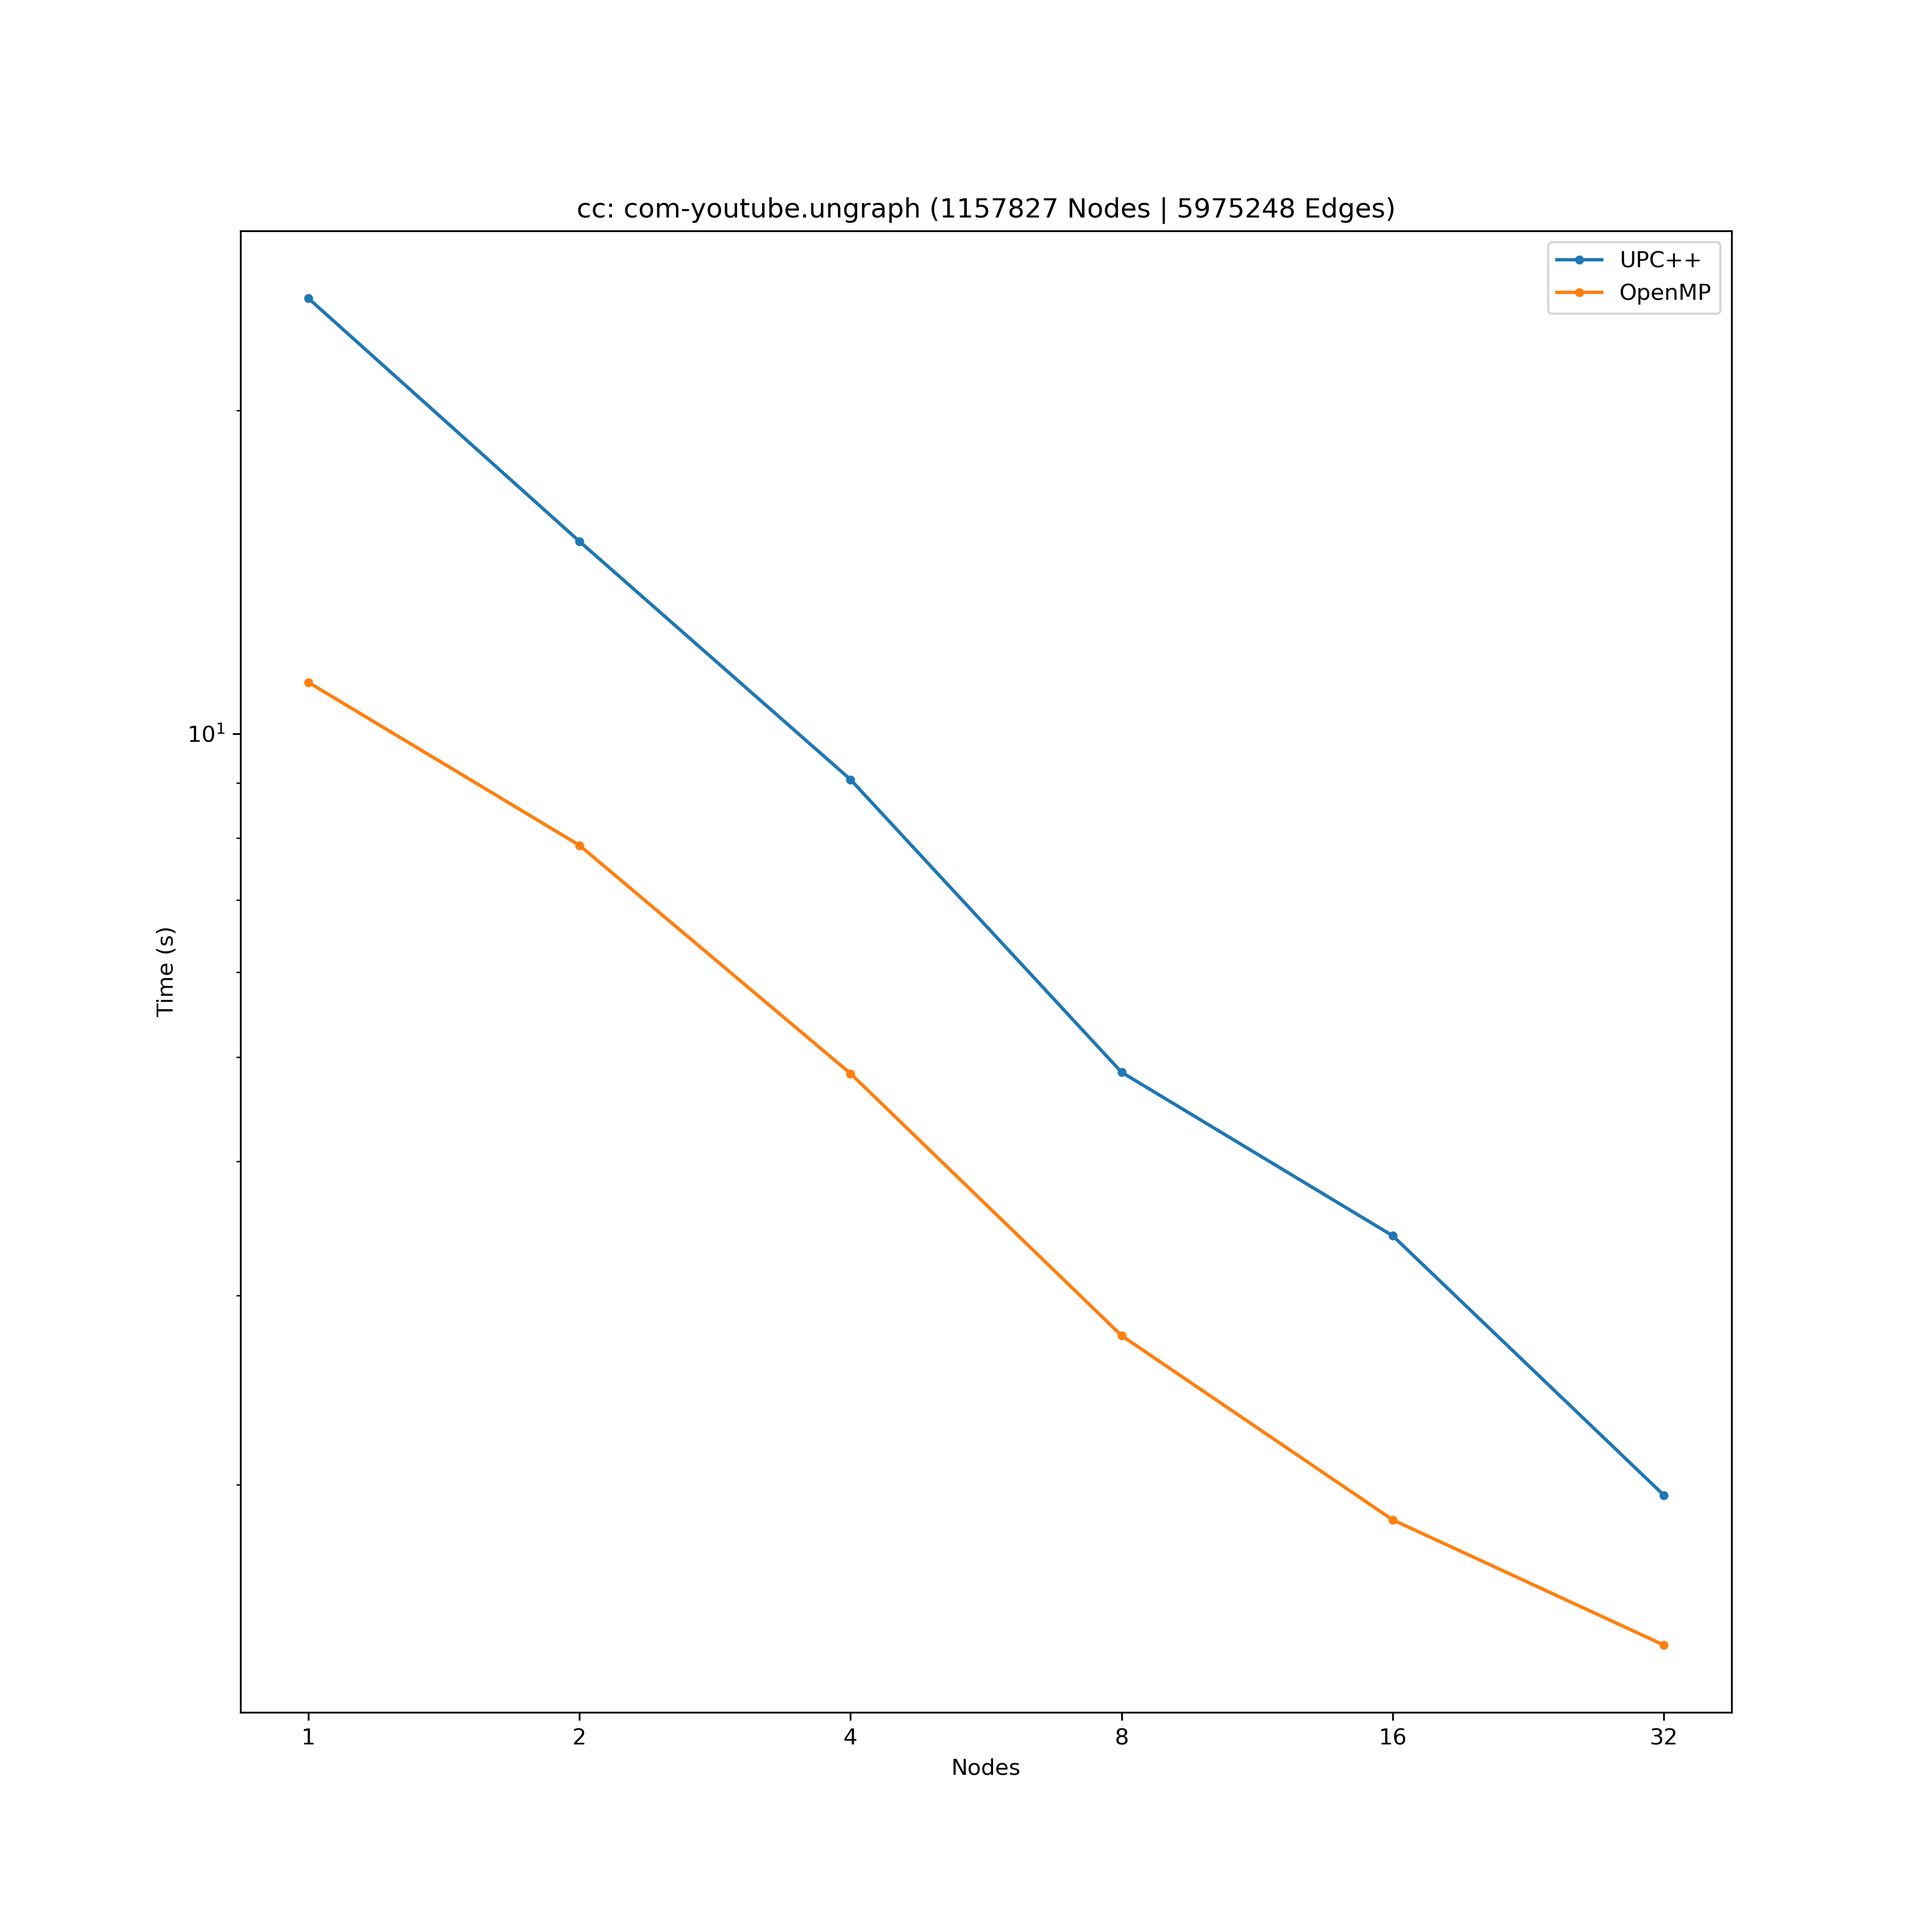
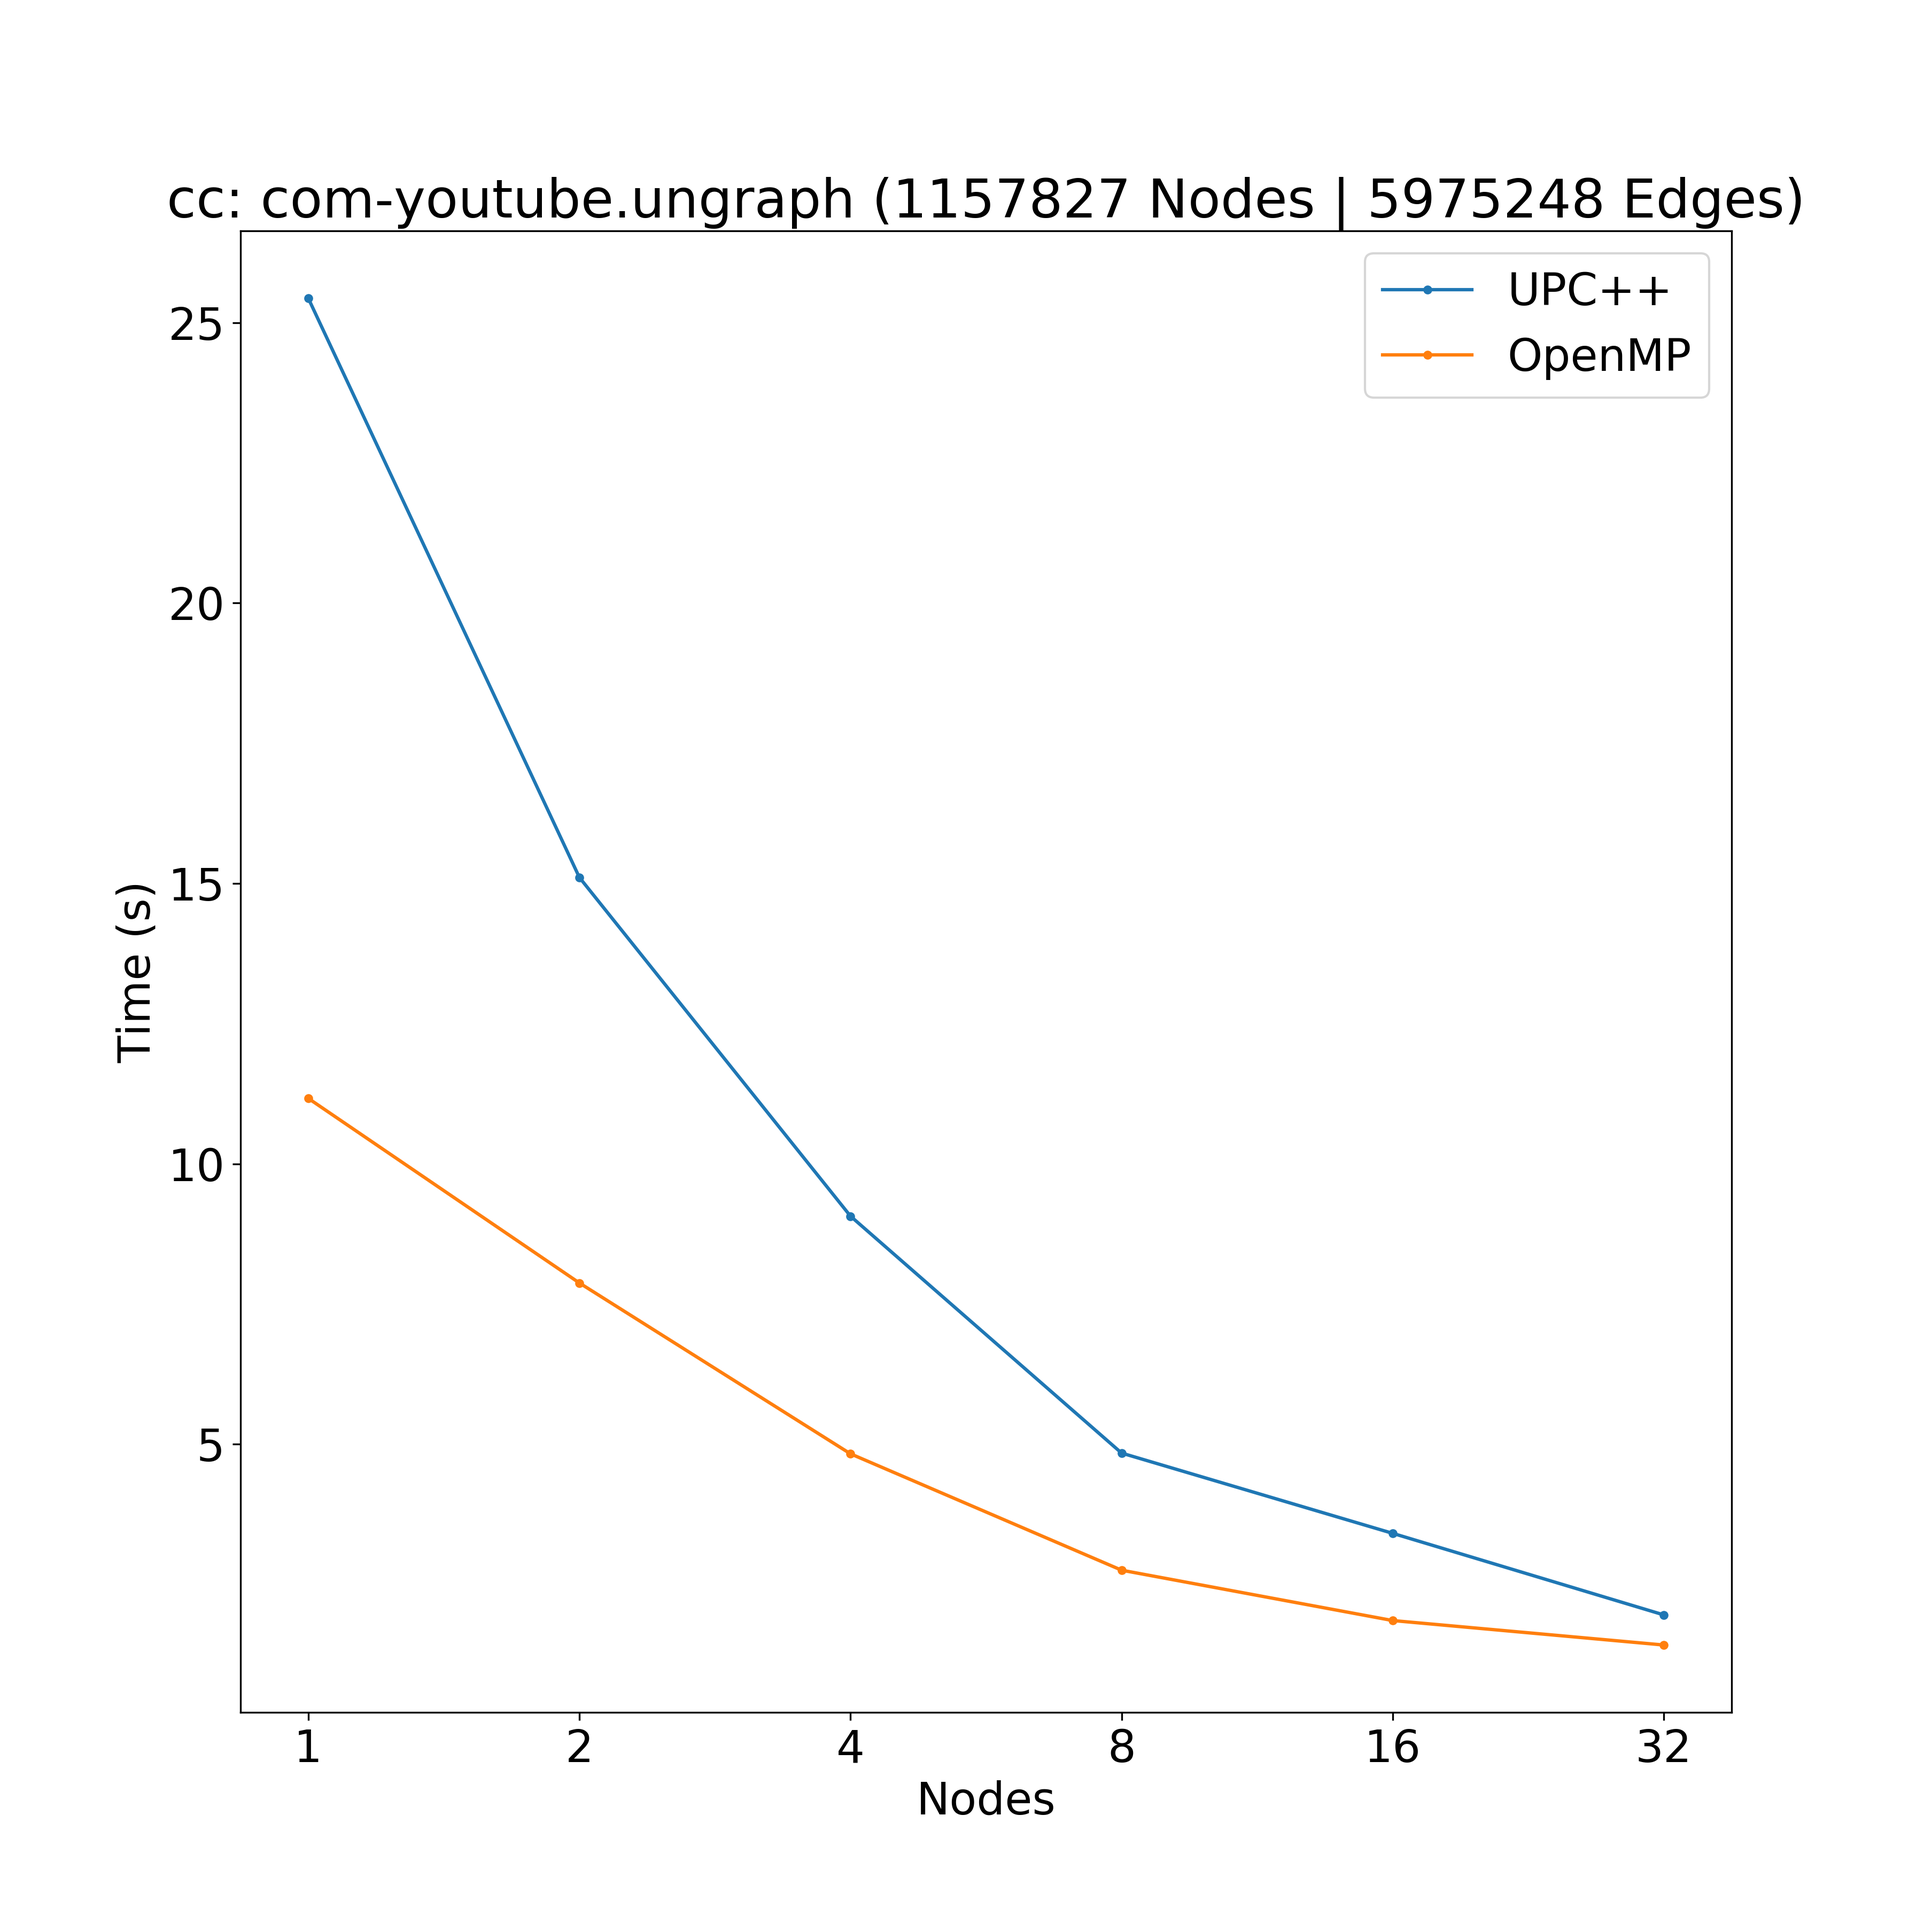
edits

diff --git a/src/upcxx/bfs.cpp b/src/upcxx/bfs.cpp
@@ -17,6 +17,63 @@ void print_vector(const vector<T> & v) {
 }
 
 
+void bfs_dense(Graph& g, dist_object<global_ptr<int>>& dist, dist_object<global_ptr<bool>>& frontier, dist_object<global_ptr<bool>>& next_frontier, int level) {
+    auto dist_local = dist->local();
+    auto frontier_local = frontier->local();
+    auto next_frontier_local = next_frontier->local();
+    global_ptr<bool> root_next_frontier = next_frontier.fetch(0).wait();
+    global_ptr<int> root_dist = dist.fetch(0).wait();
+
+    future<> fut_all = make_future();
+    for (int n = g.rank_start; n < g.rank_end; n++) {
+        // ignore if distance is already defined 
+        if (dist_local[n] < level) continue;
+        for (int v : g.in_neighbors(n)) {
+            if (dist_local[v] == (level-1)) {
+                fut_all = when_all(fut_all, rput(level, root_dist+n));
+                fut_all = when_all(fut_all, rput(true, root_next_frontier+n));
+                break;
+            }
+        }
+    }
+
+    barrier();
+
+    fut_all.wait();
+    barrier();
+    upcxx::broadcast(next_frontier_local, g.num_nodes, 0).wait();
+    upcxx::broadcast(dist_local, g.num_nodes, 0).wait();
+    barrier();
+}
+
+void bfs_sparse(Graph& g, dist_object<global_ptr<int>>& dist, dist_object<global_ptr<bool>>& frontier, dist_object<global_ptr<bool>>& next_frontier, int level) {
+    auto dist_local = dist->local();
+    auto frontier_local = frontier->local();
+    auto next_frontier_local = next_frontier->local();
+
+    global_ptr<bool> root_next_frontier = next_frontier.fetch(0).wait();
+    global_ptr<int> root_dist = dist.fetch(0).wait();
+
+    future<> fut_all = make_future();
+    for (int n = g.rank_start; n < g.rank_end; n++) {
+        // skip any that's not in frontier
+        if (!frontier_local[n]) continue;
+        for (int v : g.out_neighbors(n)) {
+            if (dist_local[v] == INT_MAX) {
+                fut_all = when_all(fut_all, rput(level, root_dist+v));
+                fut_all = when_all(fut_all, rput(true, root_next_frontier+v));
+            }
+        }
+    }
+    barrier();
+    fut_all.wait();
+    upcxx::broadcast(next_frontier_local, g.num_nodes, 0).wait();
+    upcxx::broadcast(dist_local, g.num_nodes, 0).wait();
+    barrier();
+    
+    
+}
+
 vector<int> bfs(Graph &g, int root) {
     // https://github.com/sbeamer/gapbs/blob/master/src/pr.cc
 
@@ -24,39 +81,39 @@ vector<int> bfs(Graph &g, int root) {
     auto dist_local = dist->local();
     for (int i = 0; i < g.num_nodes; i++) dist_local[i] = INT_MAX;
     dist_local[root] = 0; // initialize everyone to INF except root
+
+    // is the vertex a frontier
+    dist_object<global_ptr<bool>> frontier(new_array<bool>(g.num_nodes));
+    auto frontier_local = frontier->local();
+    for (int i = 0; i < g.num_nodes; i++) frontier_local[i] = false;
+    frontier_local[root] = true;
+    int frontier_size = 1;
+
+    dist_object<global_ptr<bool>> next_frontier(new_array<bool>(g.num_nodes));
+    auto next_frontier_local = next_frontier->local();
+    for (int i = 0; i < g.num_nodes; i++) next_frontier_local[i] = false;
     barrier();
 
-    bool is_new_added = true; // is there new node edited
-    
-    do {
-        bool new_added = false;
-        for (int n = g.rank_start; n < g.rank_end; n++) {
-            // ignore if distance is already defined 
-            if (dist_local[n] != INT_MAX) continue;
-            for (int v : g.in_neighbors(n)) {
-                if (dist_local[v] < (dist_local[n]-1)) {
-                    dist_local[n] = dist_local[v] + 1;
-                    new_added = true;
-                }
+    int level = 1;
+    while (frontier_size != 0) {
+        if (frontier_size > (g.num_nodes / 20)) {
+            bfs_dense(g, dist, frontier, next_frontier, level);
+        } else {
+            bfs_sparse(g, dist, frontier, next_frontier, level);
+        }
+        // set frontier_size
+        // clear next_frontiers
+        frontier_size = 0;
+        for (int n = 0; n < g.num_nodes; n++) {
+            frontier_local[n] = next_frontier_local[n];
+            if (next_frontier_local[n]) {
+                frontier_size += 1;
+                next_frontier_local[n] = false;
             }
         }
-
-        barrier();
-
-        // synchronize all
-        global_ptr<int> root_dist = dist.fetch(0).wait();
-        future<> fut_all = make_future();
-        for (int n = g.rank_start; n < g.rank_end; n++) {
-            fut_all = when_all(fut_all, rput(dist_local[n], root_dist+n));
-        }
-        fut_all.wait();
-        barrier();
-        upcxx::broadcast(dist_local, g.num_nodes, 0).wait();
-
-        is_new_added = reduce_all(new_added, op_bit_or).wait();
-    } while (is_new_added);
-
-
+        level += 1;
+    }
+    
     // ready the return
     vector<int> dist_return;
     dist_return.assign(dist_local, dist_local+g.num_nodes);
@@ -120,6 +177,7 @@ int main(int argc, char *argv[]) {
         int root_local = root.fetch(0).wait();
         auto time_before = std::chrono::system_clock::now();
         vector<int> dist = bfs(g, root_local);
+        // print_vector(dist);
         auto time_after = std::chrono::system_clock::now();
         std::chrono::duration<double> delta_time = time_after - time_before;
         current_time += delta_time.count();

diff --git a/src/upcxx/bfs_old.cpp b/src/upcxx/bfs_old.cpp
@@ -1,0 +1,136 @@
+#include "graph.hpp"
+#include "upcxx/upcxx.hpp"
+#include <chrono>
+#include <ctime> 
+#include <climits>
+#include <stdlib.h> 
+#include <time.h>
+
+using namespace upcxx;
+template <typename T>
+void print_vector(const vector<T> & v) {
+    cout << endl;
+    for (auto i = v.begin(); i != v.end(); ++i) {
+        cout << *i << " ";
+    }
+    cout << endl;
+}
+
+
+vector<int> bfs(Graph &g, int root) {
+    // https://github.com/sbeamer/gapbs/blob/master/src/pr.cc
+
+    dist_object<global_ptr<int>> dist(new_array<int>(g.num_nodes));
+    auto dist_local = dist->local();
+    for (int i = 0; i < g.num_nodes; i++) dist_local[i] = INT_MAX;
+    dist_local[root] = 0; // initialize everyone to INF except root
+    barrier();
+
+    bool is_new_added = true; // is there new node edited
+    
+    do {
+        bool new_added = false;
+        for (int n = g.rank_start; n < g.rank_end; n++) {
+            // ignore if distance is already defined 
+            if (dist_local[n] != INT_MAX) continue;
+            for (int v : g.in_neighbors(n)) {
+                if (dist_local[v] < (dist_local[n]-1)) {
+                    dist_local[n] = dist_local[v] + 1;
+                    new_added = true;
+                }
+            }
+        }
+
+        barrier();
+
+        // synchronize all
+        global_ptr<int> root_dist = dist.fetch(0).wait();
+        future<> fut_all = make_future();
+        for (int n = g.rank_start; n < g.rank_end; n++) {
+            fut_all = when_all(fut_all, rput(dist_local[n], root_dist+n));
+        }
+        fut_all.wait();
+        barrier();
+        upcxx::broadcast(dist_local, g.num_nodes, 0).wait();
+
+        is_new_added = reduce_all(new_added, op_bit_or).wait();
+    } while (is_new_added);
+
+
+    // ready the return
+    vector<int> dist_return;
+    dist_return.assign(dist_local, dist_local+g.num_nodes);
+    return dist_return;
+}
+
+bool verify(Graph& g, int root, vector<int> dist_in) {
+    vector<int> dist(g.num_nodes);
+
+    if (dist.size() != dist_in.size())
+        return false;
+
+    for (int i = 0; i < g.num_nodes; i++)
+        dist[i] = INT_MAX; // set INF
+
+    dist[root] = 0;
+    int level = 1;
+    vector<int> frontier, next_frontier;
+    frontier.push_back(root);
+    while (frontier.size() != 0) {
+        for (int i = 0; i < frontier.size(); i++) {
+            int u = frontier[i];
+            vector<int> neighbors = g.out_neighbors(u);
+            for (int j = 0; j < g.out_degree(u); j++) {
+                int v = neighbors[j];
+                if (dist[v] == INT_MAX) {
+                    next_frontier.push_back(v);
+                    dist[v] = level;
+                }
+            }
+        }
+        frontier = next_frontier; 
+        next_frontier.clear();
+        level += 1; 
+    }
+
+    for (int i = 0; i < dist.size(); i++) {
+        if (dist[i] != dist_in[i]) {
+            return false;
+        }
+    }
+    return true;
+}
+
+int main(int argc, char *argv[]) {
+    if (argc != 3) {
+        cout << "Usage: ./bfs <path_to_graph> <num_iters>" << endl;
+        exit(-1);
+    }
+
+    init();
+
+    Graph g = Graph(argv[1]);
+    int num_iters = atoi(argv[2]);
+
+    barrier(); 
+    srand(time(NULL));
+    float current_time = 0.0;
+    for (int i = 0; i < num_iters; i++) {
+        dist_object<int> root(rand() % g.num_nodes);
+        int root_local = root.fetch(0).wait();
+        auto time_before = std::chrono::system_clock::now();
+        vector<int> dist = bfs(g, root_local);
+        auto time_after = std::chrono::system_clock::now();
+        std::chrono::duration<double> delta_time = time_after - time_before;
+        current_time += delta_time.count();
+    }
+
+    if (rank_me() == 0) {
+        std::cout << current_time / num_iters << std::endl;
+        /* if (!verify(g, root, dist)) {
+            std::cerr << "Verification not correct" << endl;
+        } */
+    }
+    barrier();
+    finalize();
+}

diff --git a/utils/graph_real.py b/utils/graph_real.py
@@ -1,12 +1,15 @@
+import argparse
 import json
 import os
-import argparse
-
 from pathlib import Path
+
 import matplotlib
-matplotlib.use('Agg')
 import matplotlib.pyplot as plt
 import numpy as np
+
+matplotlib.use('Agg')
+font = {'size': 20}
+plt.rc('font', **font)
 
 def graph_upcxx_mp(xs_upcxx, ys_upcxx, xs_mp, ys_mp, test_name, graph_name, node_size, edge_size):
     fig, ax = plt.subplots(figsize=(12, 12), dpi=300)
@@ -20,11 +23,10 @@ def graph_upcxx_mp(xs_upcxx, ys_upcxx, xs_mp, ys_mp, test_name, graph_name, node
     ax.set_ylabel("Time (s)")
     
     ax.set_xscale('log', basex=2)
-    ax.set_yscale('log', basey=10)
     ax.set_xticks(np.array(xs_mp, dtype=np.uint8))
     ax.get_xaxis().set_major_formatter(matplotlib.ticker.ScalarFormatter())
     
-    outpath = output_dir / test_name / "{}.png".format(graph_name )
+    outpath = output_dir / test_name / "{}.png".format(graph_name)
     plt.savefig(outpath, dpi=300)
     plt.close(fig)
 

diff --git a/src/openmp/bfs.cpp b/src/openmp/bfs.cpp
@@ -12,6 +12,8 @@
 
 using namespace std;
 
+const int THRESHOLD = 1000;
+
 template <typename T>
 void print_vector(const vector<T> & v) {
     cout << endl;
@@ -20,6 +22,8 @@ void print_vector(const vector<T> & v) {
     }
     cout << endl;
 }
+
+// BUG: next_frontier repeats elements (use a set instead)
 
 void bfs_sparse(Graph& g, vector<int>& dist, vector<int>& frontier, vector<int>& next_frontier, int level) {
     #pragma omp parallel for
@@ -45,7 +49,7 @@ void bfs_dense(Graph& g, vector<int>& dist, vector<int>& frontier, vector<int>& 
         // ignore if distance is set already
         if (dist[u] != INT_MAX) continue;
         vector<int> neighbors = g.in_neighbors(u);
-        #pragma omp parallel for
+        #pragma omp parallel for if (g.in_degree(u) > THRESHOLD)
         for (int j = 0; j < g.in_degree(u); j++) {
             int v = neighbors[j];
             if (dist[v] < (dist[u]-1)) {
